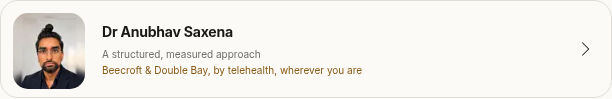
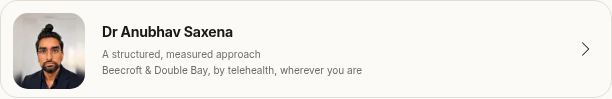
O130: the accent pointed at the wrong thing, and it was a fossil.
O129 reduced accent inflation on the profile and recorded that it was reduced,
not solved. This measured the whole flow by painting the token, resolving it, and
counting every element whose computed colour matches: welcome 0, results 5,
profile 5.

Three of the results screen's five were the location line on every row -
'Beecroft', 'Double Bay & Hornsby' - while the line directly above it, the reason
this GP was matched, sat in plain grey. On the one screen where a reader chooses
between GPs, the loudest colour pointed at the suburb.

It was a fossil, which is why nobody noticed. .availability and .row-availability
shared the accent with no rationale on either, and .availability - carrying
font-weight 580, which is how you set a value that changes - had no consumer
anywhere in the tree. It styled nextAvailable, the written-in 'Thursday, 8:30 am'
the roster deleted when every entry became a real person, because a hardcoded
time is a fabricated appointment under a named doctor. The field went, the colour
stayed, and it ended up painting a static suburb. The dead rule is deleted rather
than re-coloured; the closed-books note keeps the accent, because books opening
and closing genuinely is a value that changes - O56 built a freshness grade
around exactly that.

A second pass was needed and is the part worth keeping. With the accent gone, the
location and the reason were both muted and read as one block: a wrong emphasis
[…]

Changed region(s): [[0.1552, 0.6667, 0.5899, 0.7576]]

diff --git a/app/globals.css b/app/globals.css
@@ -1169,15 +1169,25 @@ textarea:focus-visible {
   line-height: 1.38;
 }
 
-.availability,
+/* O130: `.availability` is deleted, not re-coloured. It had NO CONSUMER in the tree — it styled
+   `nextAvailable`, the written-in "Thursday, 8:30 am" the roster removed when every entry became
+   a real person, because a hardcoded time is a fabricated appointment under a named doctor. Its
+   `font-weight: 580` is the giveaway: that is how you set a value that changes.
+
+   `.row-availability` keeps the accent because what it carries NOW — the closed-books note — is
+   genuinely such a value. Books open and close without anybody editing a profile, which is the
+   whole reason O56 built a freshness grade for them. The LOCATION line that used to share this
+   class does not change, and has moved to `.row-location` below. */
 .row-availability {
   color: var(--accent);
 }
 
-.availability {
-  margin: 8px 0 10px;
-  font-size: 0.8125rem;
-  font-weight: 580;
+/* Neutral metadata: which suburbs a GP consults from, and how far that is. It sat in accent for
+   months because it inherited a class written for appointment times, which meant the loudest
+   colour on the results screen pointed at the suburb rather than at the reason this GP was
+   matched — the line directly above it, in plain muted grey. */
+.row-location {
+  color: var(--muted);
 }
 
 .all-screen {
@@ -1269,6 +1279,17 @@ textarea:focus-visible {
 .clinician-row .row-availability {
   margin-top: 2px;
   color: var(--accent);
+}
+
+.clinician-row .row-location {
+  margin-top: 2px;
+  /* --faint, not --muted, and the reason is hierarchy rather than taste. With the accent gone
+     the location and the match REASON above it were the same grey and read as one block, which
+     traded a wrong emphasis for no emphasis. Three steps now: the name in ink, the reason that
+     decides between rows in muted, the suburb in faint. --faint is the token that clears AA at
+     11px (5.1:1 on --paper), so the quietest step is still legible to the reader this product
+     is for. */
+  color: var(--faint);
 }
 
 .clinician-row .row-practical {

diff --git a/app/finder-stages/results-stage.tsx b/app/finder-stages/results-stage.tsx
@@ -261,7 +261,12 @@ export function ResultsStage({
                 {/* O85: every place they consult, one label — a second location is a
                     fact the reader sees, and the distance sentence names which rooms
                     it measured when that matters. */}
-                <small className="row-availability">{away ? `${locationLabel(item)}, ${away}` : locationLabel(item)}</small>
+                {/* O130: `row-location`, not `row-availability`. The accent on that class is a
+                    fossil of `nextAvailable` — a written-in appointment time, deleted when the
+                    roster became real people — and it had been painting a static suburb ever
+                    since. A location is not a value that changes; the closed-books note below
+                    is, and keeps it. */}
+                <small className="row-location">{away ? `${locationLabel(item)}, ${away}` : locationLabel(item)}</small>
                 {/* Closed books never outrank open ones at equal fit, and never hide
                     either — the row says why somebody unactionable is still here (O4).
                     The "they fit what you asked" sentence only renders when a fit was

diff --git a/docs/DESIGN-QA.md b/docs/DESIGN-QA.md
@@ -976,3 +976,32 @@ Sources consulted: [Bringhurst's 45–75 via Baymard](https://baymard.com/blog/l
 [UXPin's 50–75 rule](https://www.uxpin.com/studio/blog/optimal-line-length-for-readability/),
 [USWDS typography](https://designsystem.digital.gov/components/typography/),
 [Vercel Web Interface Guidelines](https://github.com/vercel-labs/web-interface-guidelines).
+
+## O130 — the accent pointed at the wrong thing, and it was a fossil (2026-08-20)
+
+Captures: qa/accent-o130/ (results at 390 and 1280, after).
+
+- [x] O129 reduced accent inflation on the profile and recorded that it was reduced, not solved.
+  This measured the whole flow: paint the `--accent` token, resolve it, and count every element
+  whose computed colour matches. Welcome 0, results 5, profile 5.
+- [x] **Three of the results screen's five were the LOCATION line on every row** — "Beecroft",
+  "Double Bay & Hornsby" — while the line directly above it, the reason this GP was matched, sat
+  in plain grey. On the one screen where a reader chooses between GPs, the loudest colour pointed
+  at the suburb.
+- [x] **It was a fossil, which is why nobody noticed.** `.availability` and `.row-availability`
+  shared `color: var(--accent)` with no rationale on either, and `.availability` — carrying
+  `font-weight: 580`, which is how you set a value that changes — had NO CONSUMER anywhere in the
+  tree. It styled `nextAvailable`, the written-in "Thursday, 8:30 am" the roster deleted when
+  every entry became a real person, because a hardcoded time is a fabricated appointment under a
+  named doctor. The field went; the colour stayed; it ended up painting a static suburb.
+- [x] The dead rule is deleted rather than re-coloured. The location moved to `.row-location`.
+  The closed-books note KEEPS the accent, because books opening and closing genuinely is a value
+  that changes — O56 built an entire freshness grade around exactly that.
+- [x] **A second pass was needed and is worth recording.** With the accent gone, the location and
+  the reason were both `--muted` and read as one block: a wrong emphasis had been traded for no
+  emphasis. Three steps now — name in `--ink`, the reason that decides between rows in `--muted`,
+  the suburb in `--faint`, which is the token that clears AA at 11px (5.1:1 on `--paper`) so the
+  quietest step is still legible to the reader this product is for.
+- [x] Results screen: 5 accent elements → 2 (the eyebrow, and one control). Profile unchanged at
+  5, each defensible per O129: eyebrow, compliance disclosure, the matched-facet chip (the live
+  token the colour is actually for), a link, and a booking status.

diff --git a/BUILD-STATE.md b/BUILD-STATE.md
@@ -142,6 +142,20 @@ Session logs still go to Stefan-Brain `wiki/_log/` (non-fatal if unavailable).
 > changes (O56 built a whole freshness grade around exactly that), so it is the one thing in
 > that row the token is for. Gate: accent count re-measured across all three screens after,
 > before/after captures, DESIGN-QA entry, e2e green, full `pnpm verify` green.
+> DONE 2026-08-20. Results screen 5 accent elements → 2; the dead `.availability` rule deleted
+> rather than re-coloured; the closed-books note keeps the token because it is the one thing in
+> that row that genuinely changes.
+> **A SECOND PASS WAS NEEDED, and it is the part worth keeping.** With the accent removed, the
+> location and the match reason were both `--muted` and read as a single block — a WRONG
+> emphasis traded for NO emphasis, which is the failure mode of every "just make it quieter"
+> fix. Three steps now: the name in `--ink`, the reason that decides between rows in `--muted`,
+> the suburb in `--faint` — the token chosen because it clears AA at 11px (5.1:1 on `--paper`),
+> so the quietest step is still legible to the reader this product exists for. Removing a colour
+> is not the same as fixing a hierarchy, and the first version had only done the removing.
+> Profile stays at 5, each defensible per O129 and none of them a fossil: eyebrow, compliance
+> disclosure, the matched-facet chip (the live token the colour is actually for), a link, a
+> booking status. Gate met: qa/accent-o130/ at both viewports, DESIGN-QA entry, 26 e2e green,
+> `pnpm verify` green 3579.
 
 > **O129 (FOUNDER-REPORTED: the profile "looks terrible" — a thorough design audit) — claimed
 > 2026-08-20T22:52Z by loop-0820s.** Founder sent a screenshot of Dr Anubhav Saxena's profile
